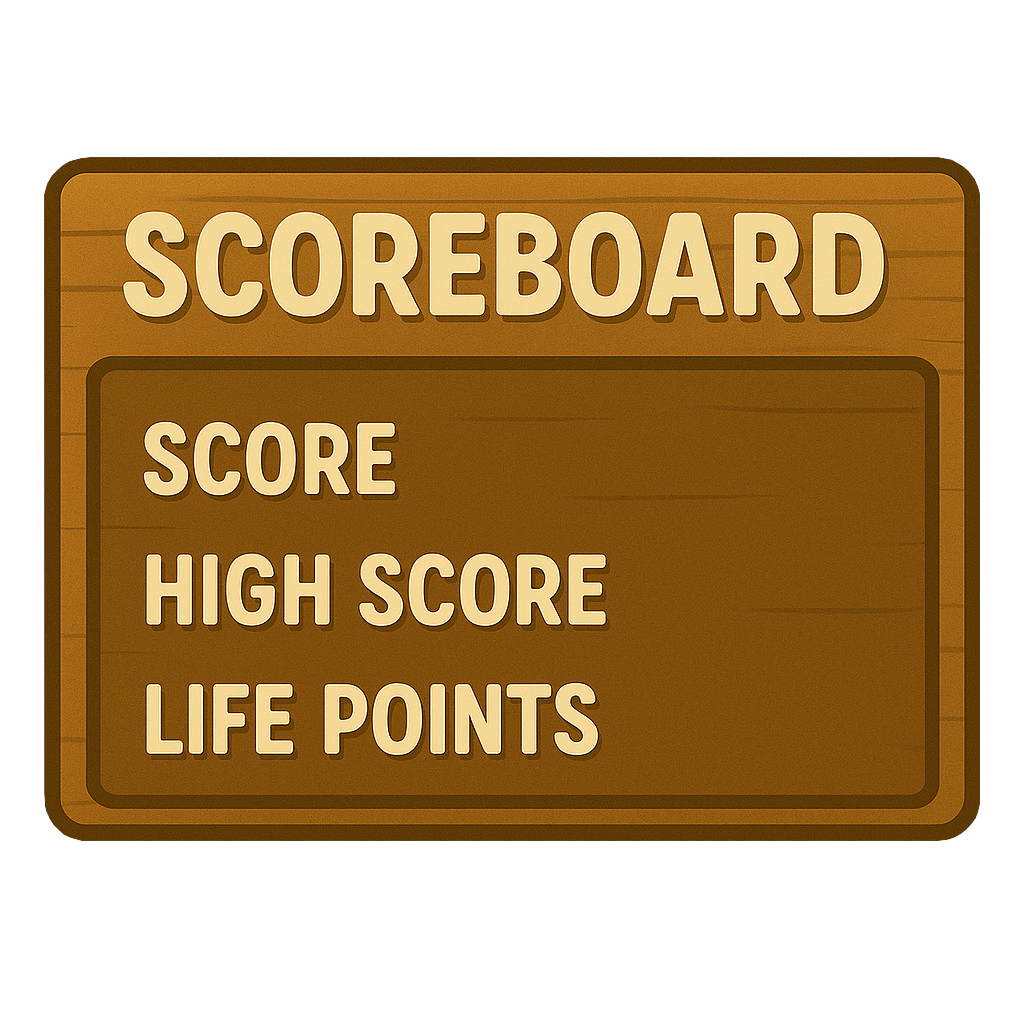
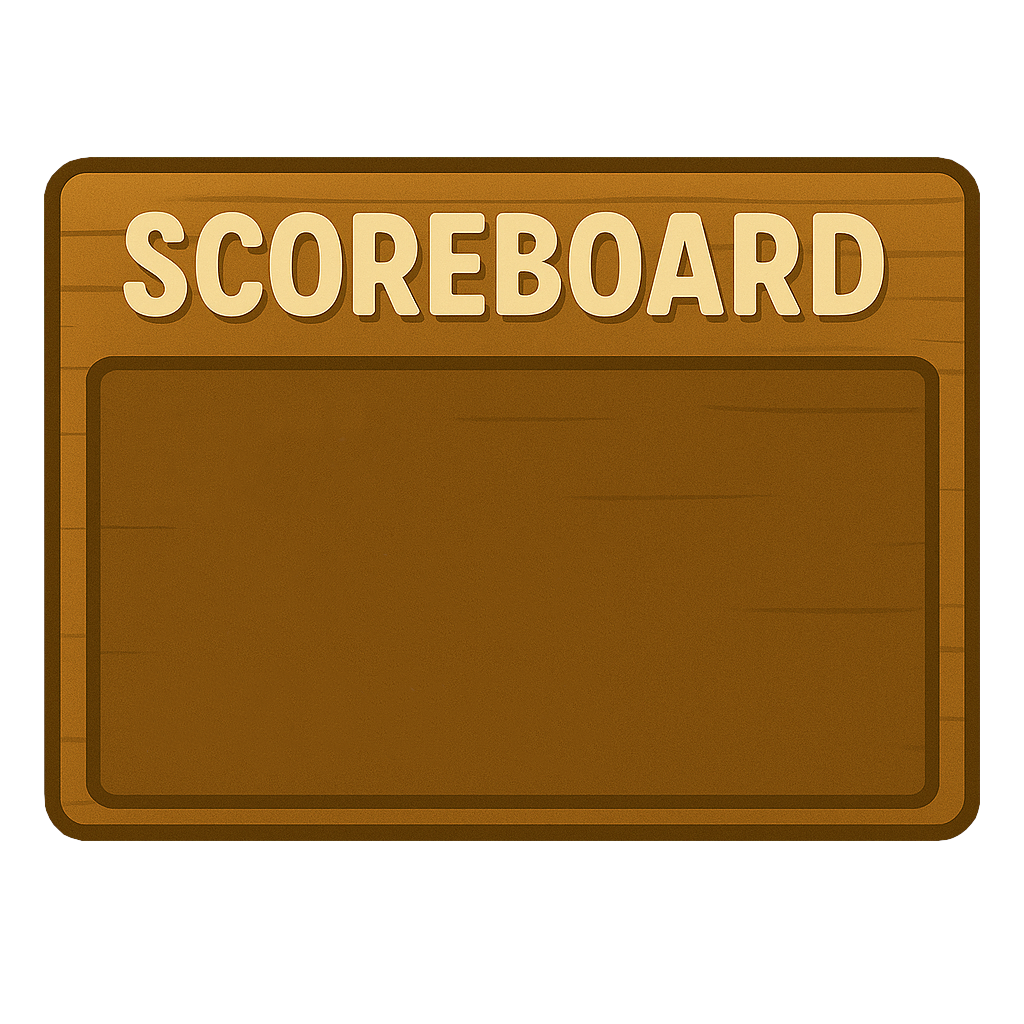
Counter, scoreboard, whistler generator

Changed region(s): [[0.125, 0.5312, 0.5938, 0.625], [0.125, 0.6562, 0.5938, 0.75], [0.125, 0.4062, 0.4062, 0.5]]

diff --git a/script.js b/script.js
@@ -6,15 +6,67 @@ const btnReset = document.querySelector(".buttonReset");
 const backdrop = document.querySelector(".container");
 const startPaneImg = document.querySelector(".start_pane_img");
 
-btnStart.addEventListener("click", () => {
-  box.style.transition = "transform 0.5s ease, opacity 0.5s ease";
-  box.style.transform = "translateY(-110%)";
-  box.style.opacity = "0.9";
-  backdrop.classList.add("transparent");
-  document.querySelector("body").style.backgroundImage = "url('plansza_bez_dziur.png')";
+let intervalId = null;
+let randomHolesTimeout = null;
+let swistakGeneratorTimeout = null;
+let stop = true;
+let counterInterval = null;
 
-  setTimeout(() => {generateHoles();}, 1500);
-  randomSwistakGenerator();
+btnStart.addEventListener("click", () => {
+  clearInterval(intervalId);
+  clearTimeout(randomHolesTimeout);
+  clearTimeout(swistakGeneratorTimeout);
+
+  let counter = 5;
+  let h1 = document.createElement("h1");
+
+  if(stop){
+    counterInterval = setInterval(() => {
+      h1.textContent = counter;
+      h1.style.position = "absolute";
+      h1.style.left = "50%";
+      h1.style.top = "60%";
+      h1.style.transform = "translate(-50%, -50%)";
+      h1.style.fontSize = "200px";
+      h1.style.color = "#e5bd68";
+      h1.style.zIndex = "1000";
+      h1.style.transition = "opacity 0.5s ease";
+      h1.style.opacity = "1";
+      backdrop.appendChild(h1);
+      counter--;
+      if(counter < 0){
+        clearInterval(counterInterval);
+        h1.style.opacity = "0";
+        setTimeout(() => {
+          h1.remove();
+        }, 500);
+      }
+    }, 1000);
+
+
+
+    box.style.transition = "transform 0.5s ease, opacity 0.5s ease";
+    box.style.transform = "translateY(-110%)";
+    box.style.opacity = "0.9";
+    backdrop.classList.add("transparent");
+    document.querySelector("body").style.backgroundImage = "url('plansza_bez_dziur.png')";
+
+    randomHolesTimeout =  setTimeout(() => {generateHoles();}, 1500);
+  
+    swistakGeneratorTimeout = setTimeout(() => {
+      document.querySelectorAll(".swistak").forEach(swistak => {
+      swistak.remove();
+    });intervalId = setInterval(() => {
+      randomSwistakGenerator();
+    },1000);
+    },6000 );
+
+    stop = false;
+  }
+  
+
+  
+
 });
 
 btnStop.addEventListener("click", () => {
@@ -24,19 +76,19 @@ btnStop.addEventListener("click", () => {
     box.style.opacity = "1";
     backdrop.classList.remove("transparent");
     document.querySelector("body").style.backgroundImage = "url('plansza.png')";
+
     document.querySelectorAll(".hole").forEach(hole => {
       hole.remove();
     });
     document.querySelectorAll(".swistak").forEach(swistak => {
       swistak.remove();
     });
-  }
- 
 
- 
- 
-
-});
+    clearInterval(intervalId);
+    clearTimeout(randomHolesTimeout);
+    clearTimeout(swistakGeneratorTimeout);
+    stop = true;
+}});
 
 btnReset.addEventListener("click", () => {
   randomSwistakGenerator();
@@ -45,6 +97,10 @@ btnReset.addEventListener("click", () => {
 const hole = document.createElement("img");
 hole.src = "dziura.png";
 hole.classList.add("hole");
+hole.style.position = "absolute";
+hole.style.width = "200px";
+hole.style.height = "200px";
+
 
 const container = document.querySelector(".container");
 
@@ -52,17 +108,14 @@ const swistak = document.createElement("img");
 swistak.src = "zwierzak.png";
 swistak.classList.add("swistak");
 
-const positions = [];
+let positions = [];
 
 function generateHoles(){
+  positions = [];
 
-
-  const minY = (window.innerHeight - 200) / 2;
-  const maxY = (window.innerHeight - 200);
-  hole.style.position = "absolute";
-  hole.style.width = "200px";
-  hole.style.height = "200px";
-
+  let minY = (window.innerHeight - 200) / 2;
+  let maxY = (window.innerHeight - 200);
+  
   let randomX, randomY;
 
   function isOverlapping(x,y){
@@ -88,9 +141,13 @@ function generateHoles(){
     holeClone.style.top = randomY + "px";
     container.appendChild(holeClone);
   }
+  
 }
 
 function randomSwistakGenerator(){
+  document.querySelectorAll(".swistak").forEach(swistak => {
+    swistak.remove();
+  });
   swistak.style.position = "absolute";
   randomPosition = Math.floor(Math.random() * (positions.length ));
   swistak.style.left = positions[randomPosition].x - 12 + "px" ;

diff --git a/style.css b/style.css
@@ -16,6 +16,8 @@ body{
     align-items: center;
     background-color: rgba(65, 65, 65, 0.5);
     transition: background-color 1s ease; 
+    position: fixed;
+    z-index: 0;
 }
 .container.transparent{
     background-color: transparent;
@@ -68,15 +70,36 @@ body{
     position: absolute;
     top: 5%;
     left: 3%;
-    width: 20%;
-    height: 40%;
+    width: auto;
+    height: auto;
     font-family: "Luckiest Guy", cursive;
     color: #f5c159;
     z-index: 0;
+    padding: 0;
 }
 .scoreboard_img{
+    position: absolute;
+    top: 5%;
+    left: 3%;
+    font-family: "Luckiest Guy", cursive;
+    color: #f5c159;
     background-image: url('scoreboard.png');
-    background-size: cover;
-    width: 100%;
-    height: 100%;
+    background-size: 100% 100%;
+    background-repeat: no-repeat;
+    background-position: center;
+    width: 35vh;
+    height: 30vh;
+    font-size: 1em;
+    z-index: -1;
 }
+h1{
+    font-family: "Luckiest Guy", cursive;
+    color: #e5bd68;
+    -webkit-text-stroke: #51381b 2px;
+    font-size: 2em;
+    margin: 0;
+    position: relative;
+    left: 15%;
+    top: 38%;
+}
+

diff --git a/index.html b/index.html
@@ -10,11 +10,13 @@
     <title>Gra_1</title>
 </head>
 <body>
-    
-        <div class="container"> 
-            <div class="scoreboard">
-                <div class="scoreboard_img"></div>
+        <div class="scoreboard_img">
+                <h1 class="score">SCORE: 0</h1>
+                <h1 class="high_score">HGIH SCORE: 0</h1>
+                <h1 class="life_points">LIFE POINTS: 0</h1> 
             </div>
+        <div class="container"> 
+            
             <div class="start-pane">
                 <img src="start_pane_img.png" alt="Start_pane" class="start_pane_img">
                 <div class="sterring_buttons">
